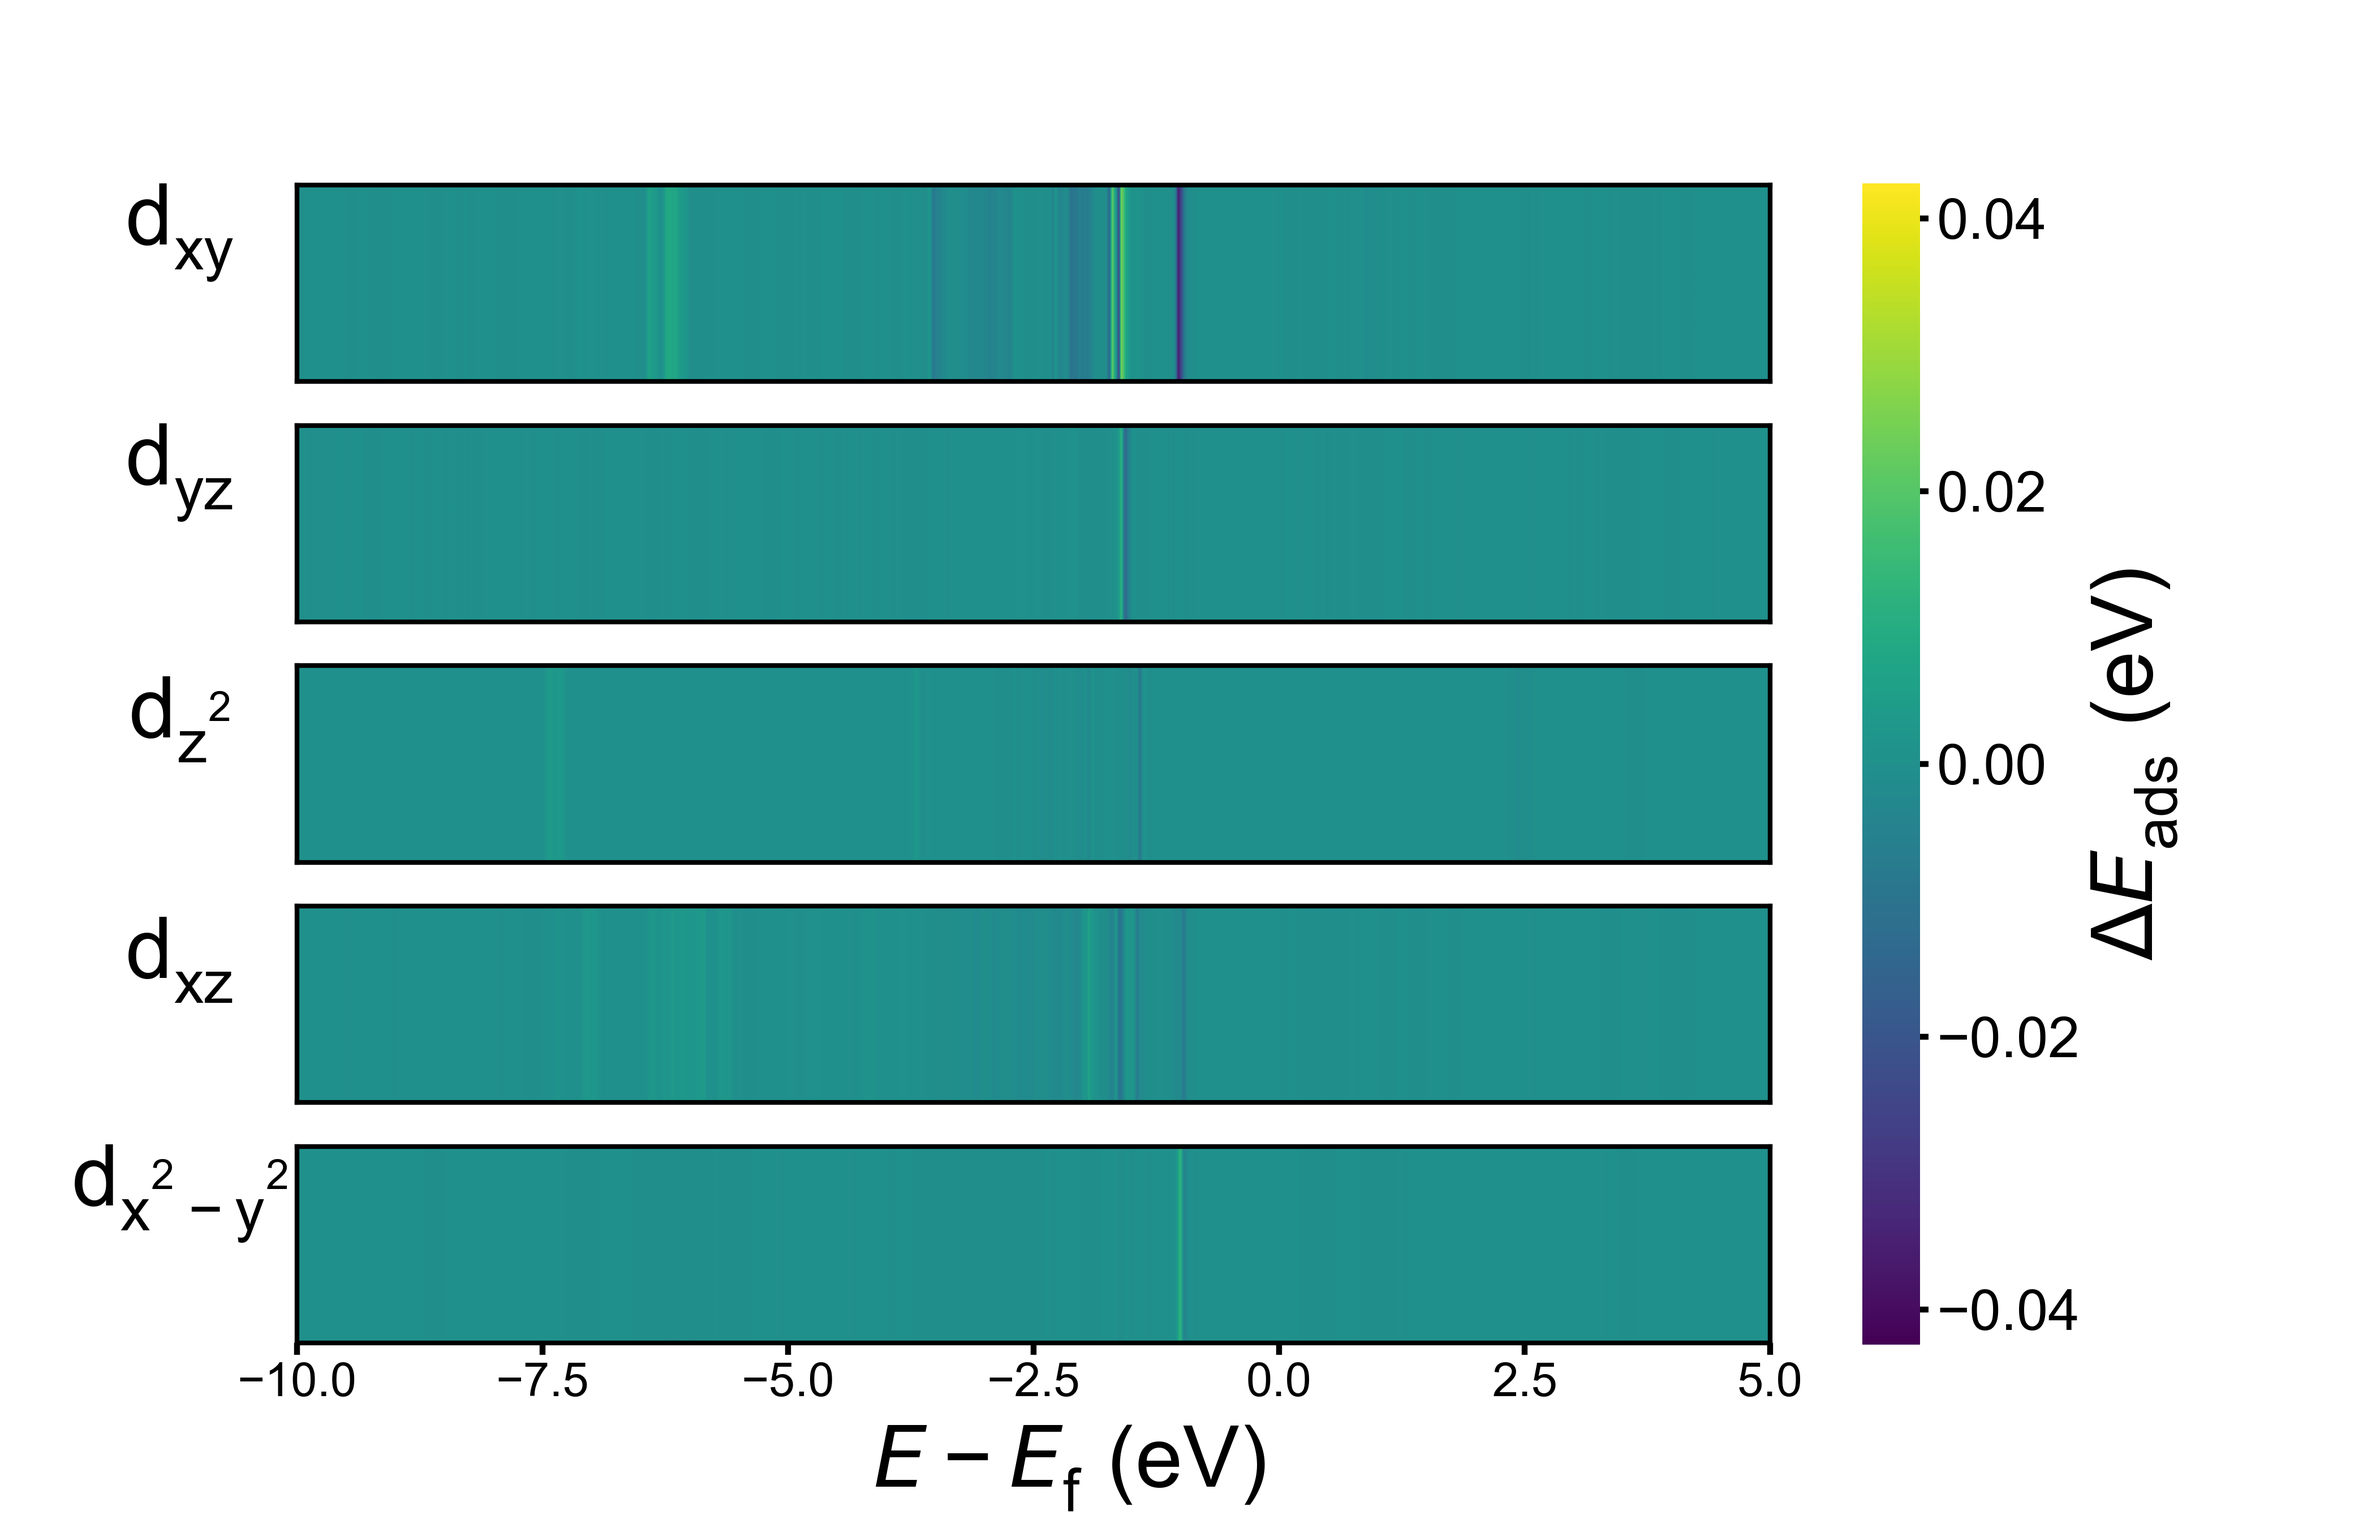
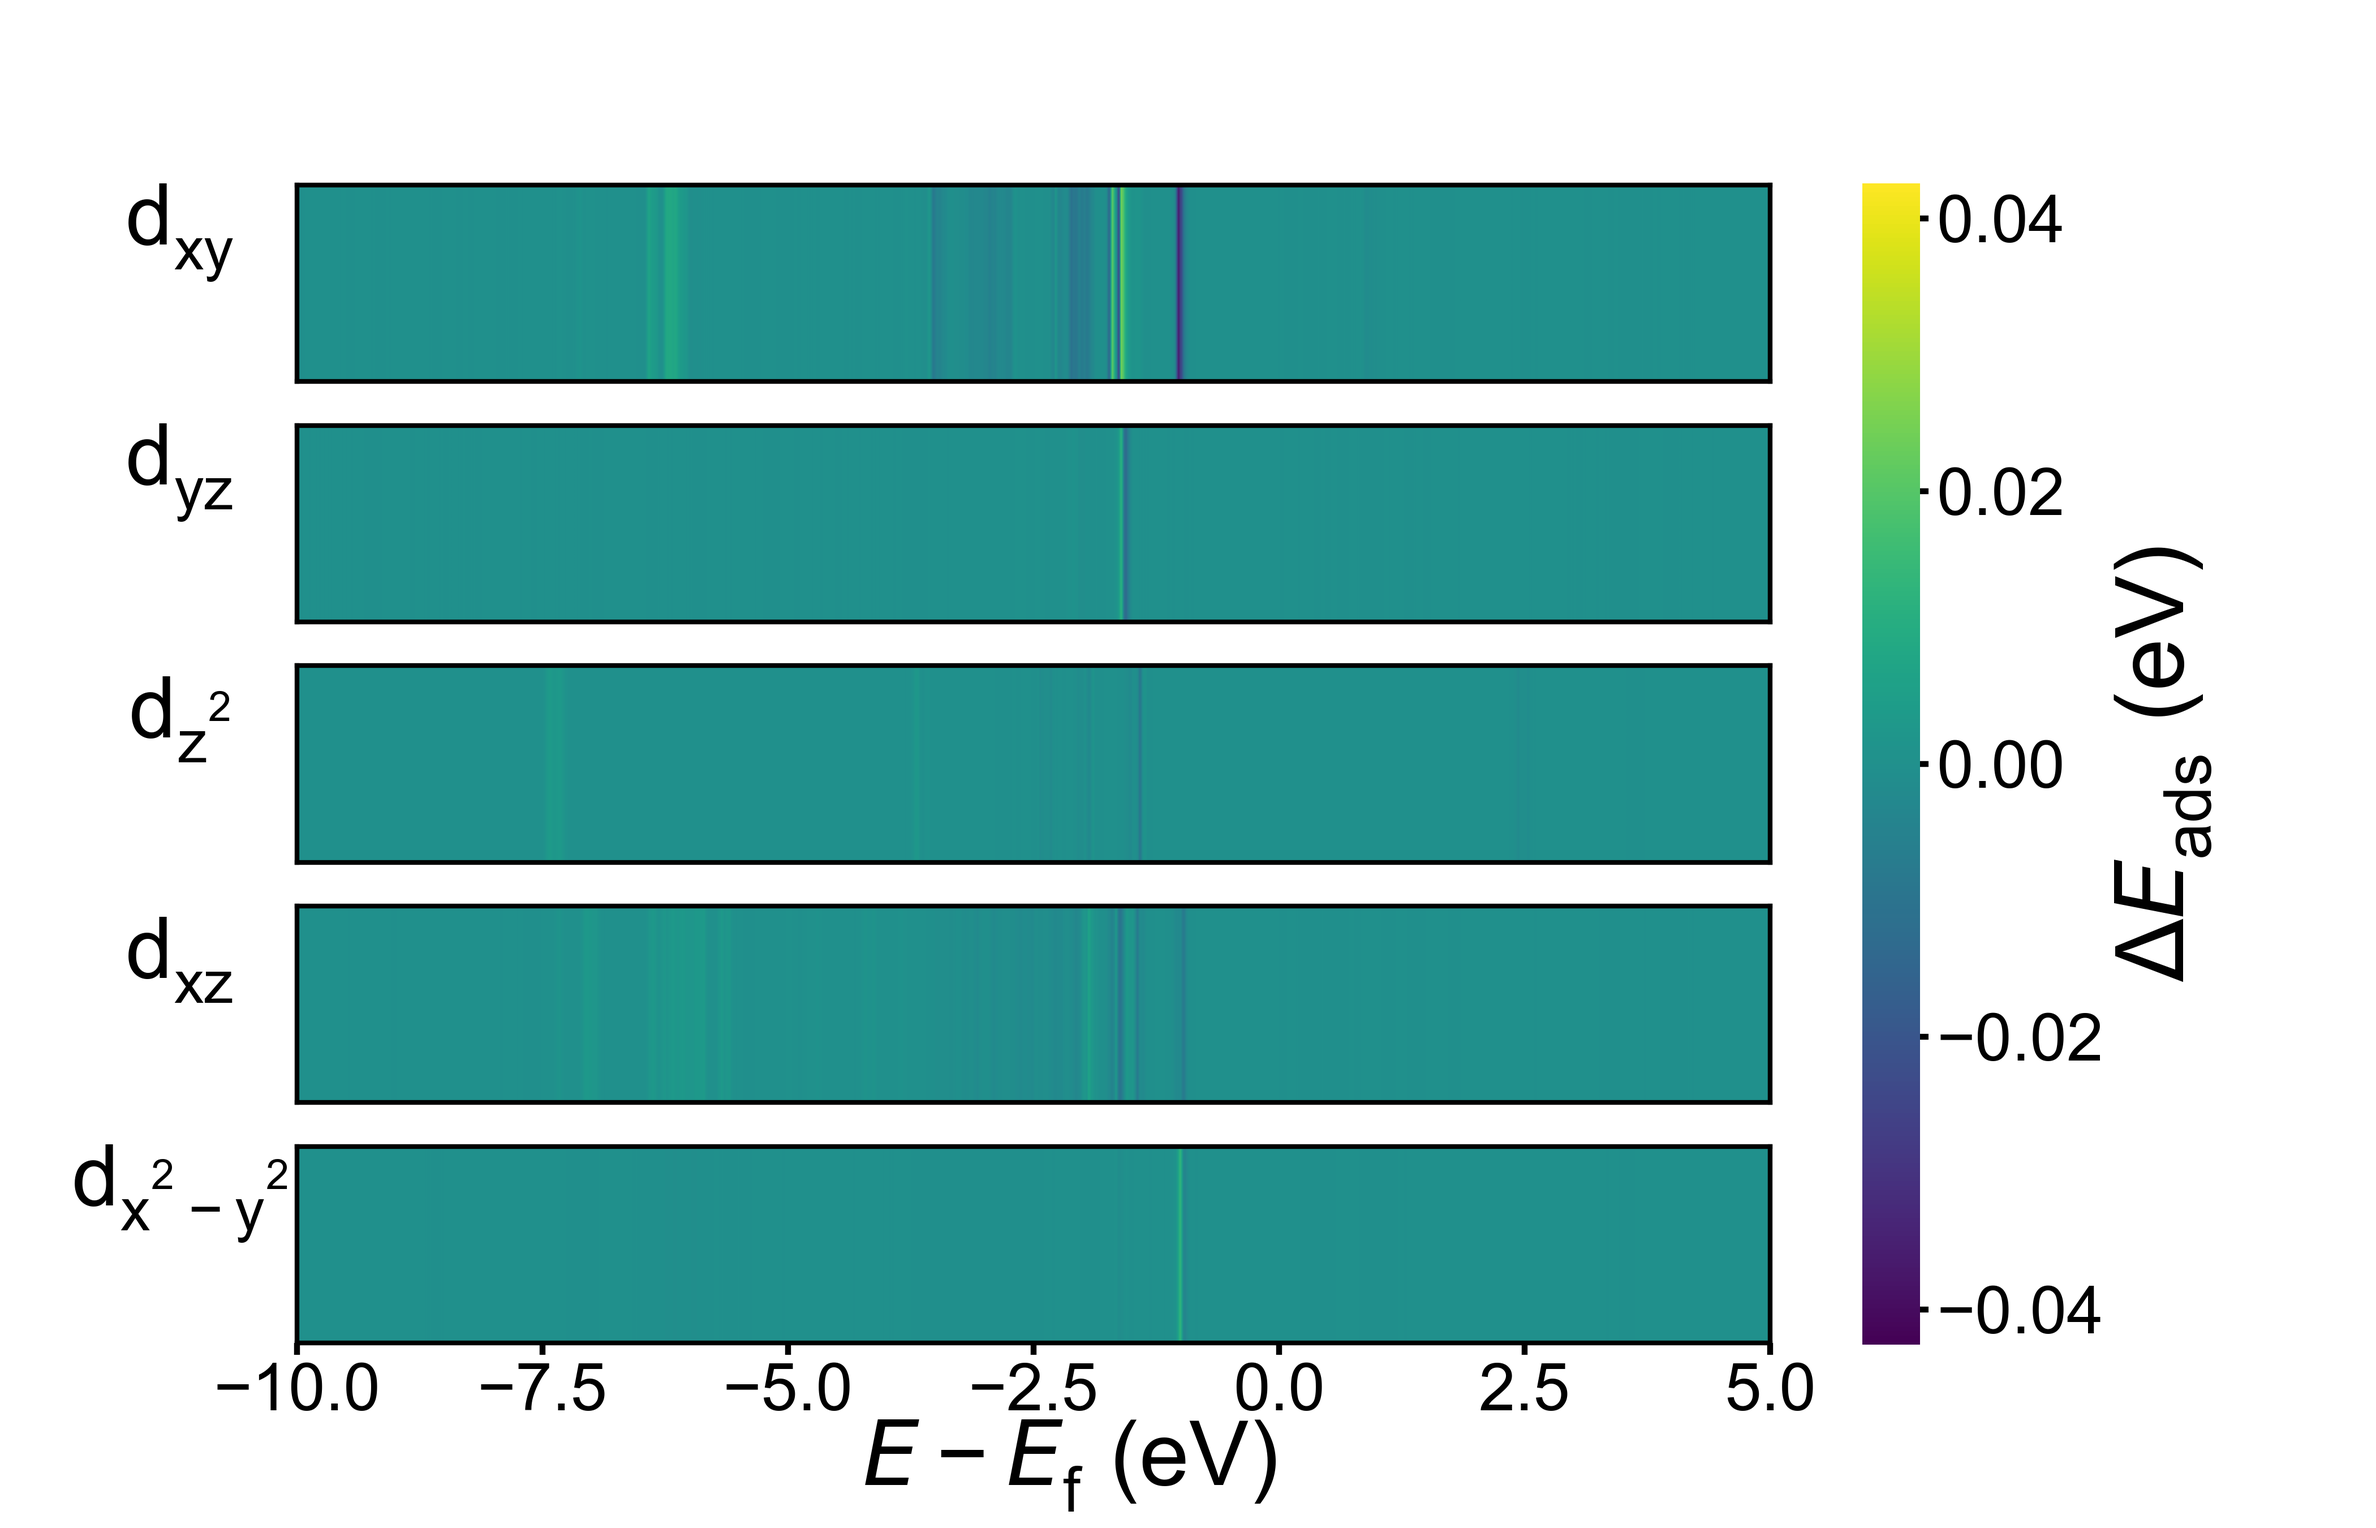
increase fontsize in occusion experiments plots

diff --git a/3-occlusion-experiments/src/occlusionPlotter.py b/3-occlusion-experiments/src/occlusionPlotter.py
@@ -177,7 +177,7 @@ class OcclusionPlotter:
             ax.set_xlim(self.config["plotting"]["plot_energy_range"])
             ax.set_xticks(np.arange(-10, 5 + 2.5, 2.5))
             ax.tick_params(
-                axis="both", which="major", labelsize=20, width=2.5, length=5
+                axis="both", which="major", labelsize=28, width=2.5, length=5
             )
 
             # Add orbital names to the left
@@ -201,7 +201,7 @@ class OcclusionPlotter:
         # Set x/y axis labels
         # TODO: increase fontsize further would lead to overlap
         mpl.rcParams["mathtext.default"] = "regular"  # non-Italic
-        fig.supxlabel("$\mathit{E}-\mathit{E}_f$ (eV)", fontsize=36, x=0.45)
+        fig.supxlabel("$\mathit{E}-\mathit{E}_f$ (eV)", fontsize=38, x=0.45)
         fig.subplots_adjust(bottom=0.12)  # adjust x-axis title position
 
         # Add colorbar
@@ -209,9 +209,9 @@ class OcclusionPlotter:
             im,
             ax=axs.ravel().tolist(),
         )
-        cb.set_label("$\Delta\mathit{E}_{ads}$ (eV)", fontsize=36)
+        cb.set_label("$\Delta\mathit{E}_{ads}$ (eV)", fontsize=40)
         cb.outline.set_visible(False)  # hide border
-        cb.ax.tick_params(labelsize=24, width=2.5)  # set tick style
+        cb.ax.tick_params(labelsize=28, width=2.5)  # set tick style
         cb.locator = ticker.MaxNLocator(5)  # set number of ticks
         cb.update_ticks()
 

diff --git a/3-occlusion-experiments/src/utilities.py b/3-occlusion-experiments/src/utilities.py
@@ -48,6 +48,7 @@ def get_fermi_level(working_dir: str, fermi_level_source: str) -> float:
     fermi_level_source = Path(fermi_level_source)
 
     substrate, adsorbate, state, metal = get_properties_from_path(working_dir)
+    adsorbate = adsorbate.split("-")[-1]  # extract adsorbate "CO" from "3-CO"
 
     csv_file = fermi_level_source / f"{substrate}-{state}.csv"
     if not csv_file.exists():
